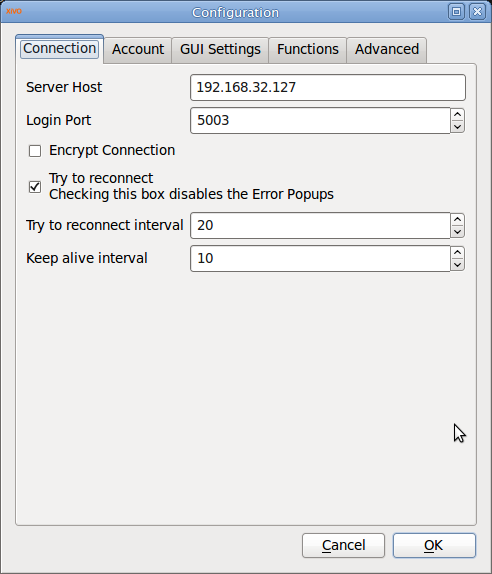
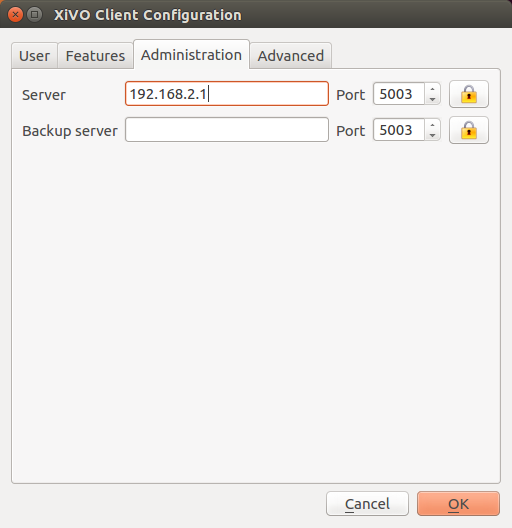
update screenshot for connection configuration

Changed region(s): [[0.0, 0.0, 1.0, 1.0], [0.0305, 0.303, 0.9451, 0.4848], [0.9146, 0.7273, 0.9451, 0.7879]]

diff --git a/source/cti_client/cti_client.rst b/source/cti_client/cti_client.rst
@@ -86,12 +86,10 @@ Connection Configuration
 
 This page allows the user to set his network information to connect to the xivo-ctid server.
 
-* `Server Host` is the IP adress of the server.
-* `Login Port` is the port on wich xivo-ctid is listening for connections. (default: 5003)
+* `Server` is the IP adress of the server.
+* `Backup server` is the IP adress of the backup server.
+* `Port` is the port on wich xivo-ctid is listening for connections. (default: 5003)
 * `Encrypt Connection` is the option to encrypt messages between the client and the server. (default port 5013)
-* `Try to reconnect` will reconnect the client when the connection is dropped.
-* `Try to reconnect interval` is the reconnection delay before the auto-reconnection is tryed.
-* `Keep alive interval` is the number of seconds between keepalives messages.
 
 
 Handling callto: and tel: URLs
